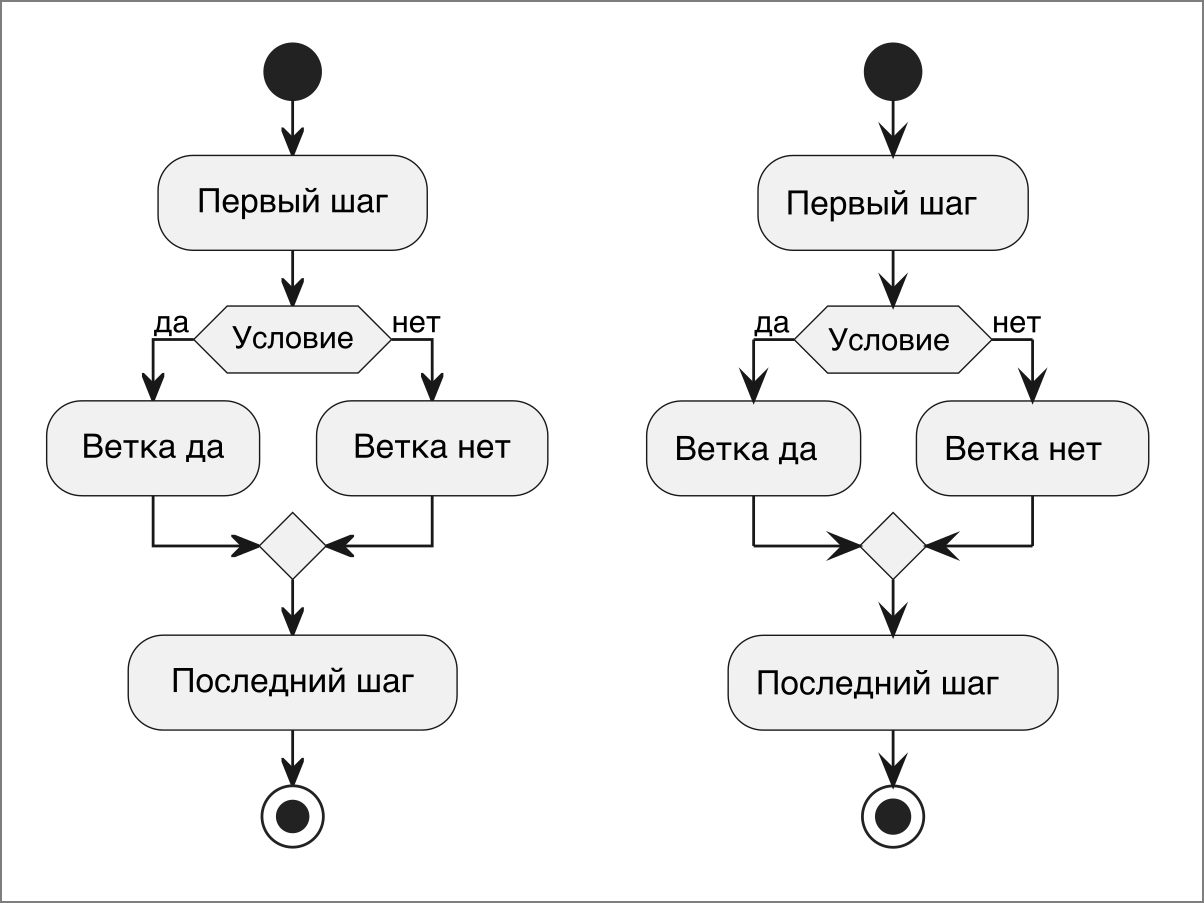
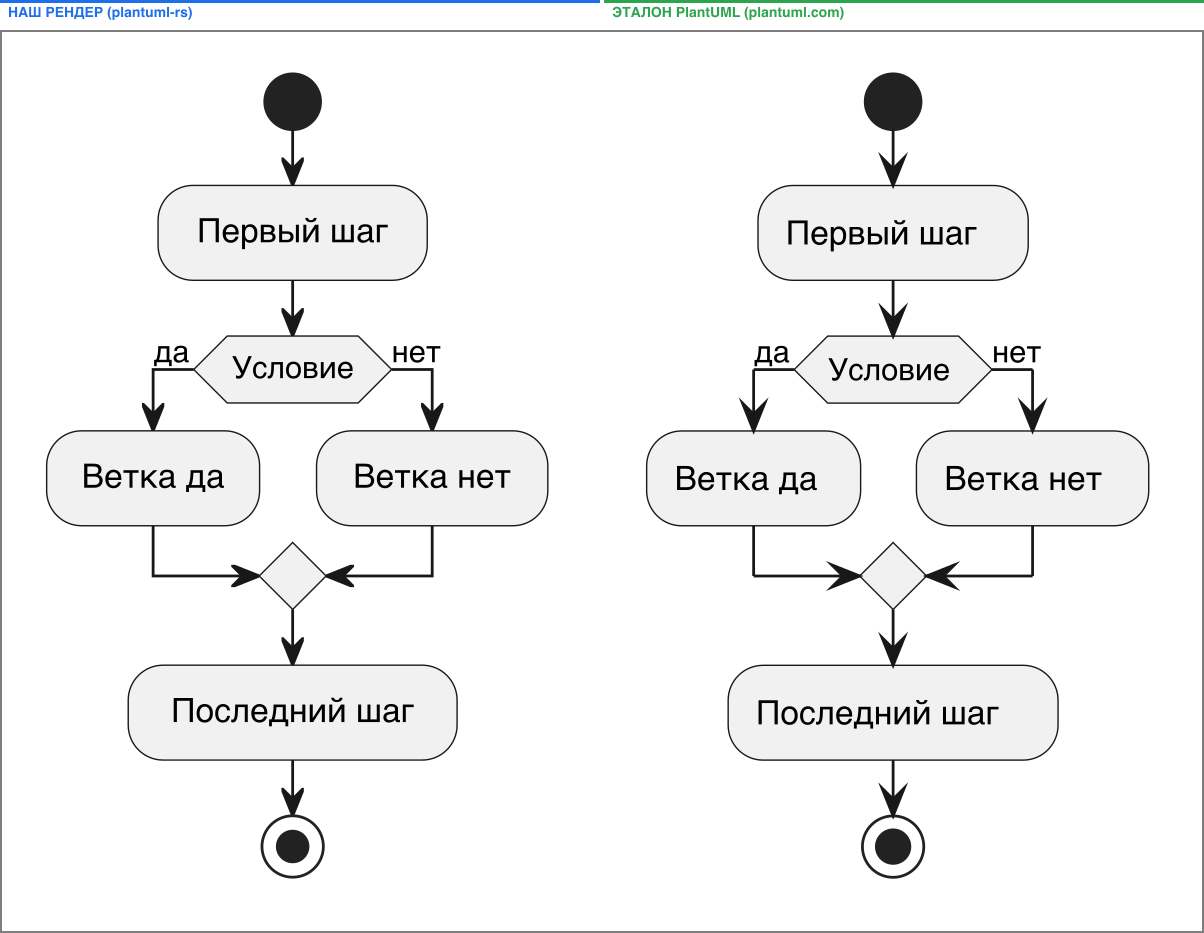
docs: подписи «наш рендер | эталон» прямо на листах сравнения
Вопрос «что слева, что справа» возник не на пустом месте: когда рендеры
совпадают, отличить половины по картинке нельзя. Сверху каждого листа
теперь полоса с подписью и цветной чертой — синяя у нашего рендера,
зелёная у эталона.

Ориентация дополнительно проверена измерением: левая половина каждого из
20 листов попиксельно совпадает с растеризацией нашего SVG, правая —
с эталоном (разница 0.00 в обоих случаях).

diff --git a/docs/visual-comparison/README.md b/docs/visual-comparison/README.md
@@ -1,6 +1,13 @@
 # Визуальное сравнение с PlantUML
 
 В каждом листе **слева — наш рендер, справа — эталон PlantUML**.
+Сверху листа идёт подпись: синяя черта и «НАШ РЕНДЕР (plantuml-rs)» слева,
+зелёная и «ЭТАЛОН PlantUML (plantuml.com)» справа.
+
+Ориентация проверена измерением, а не на глаз: левая половина каждого листа
+попиксельно совпадает с растеризацией нашего SVG (разница 0.00), правая —
+с эталоном (0.00).
+
 Эталоны получены с plantuml.com (v1.2026.9beta4) скриптом
 `tests/golden/fetch_references.py`.
 
@@ -13,7 +20,11 @@ cargo run --release -p plantuml-core --example=<кейс>
 # raster
 rsvg-convert -w 600 <наш>.svg -o <наш>.png
 rsvg-convert -w 600 <эталон>.svg -o <эталон>.png
-magick <наш>.png <эталон>.png +append <лист>.png
+magick <наш>.png <эталон>.png +append -bordercolor gray -border 2 <тело>.png
+python3 - <<'EOF'   # полоса-подпись сверху
+...
+EOF
+magick <подпись>.png <тело>.png -append <лист>.png
 ```
 
 ## Что было исправлено в левых картинках
